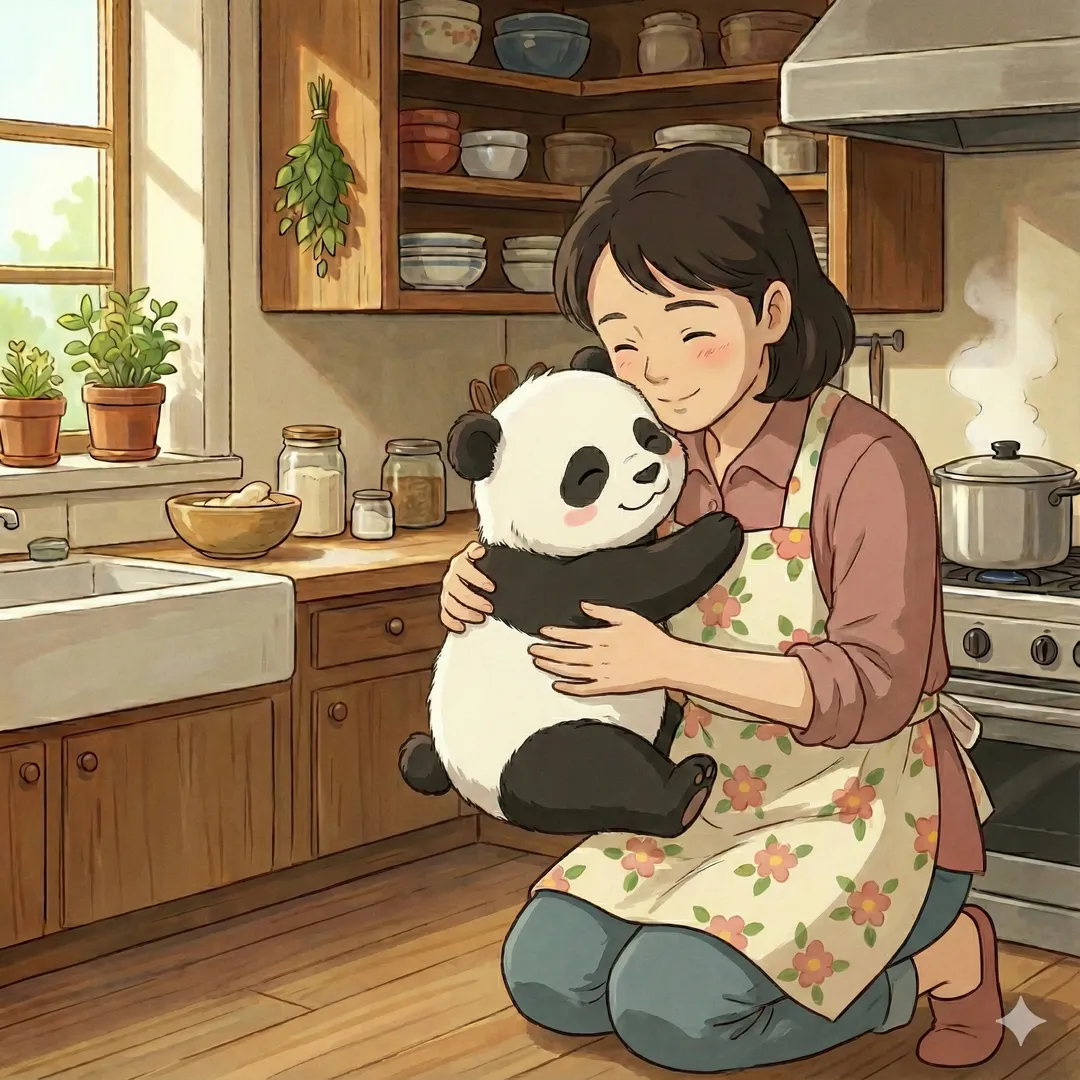
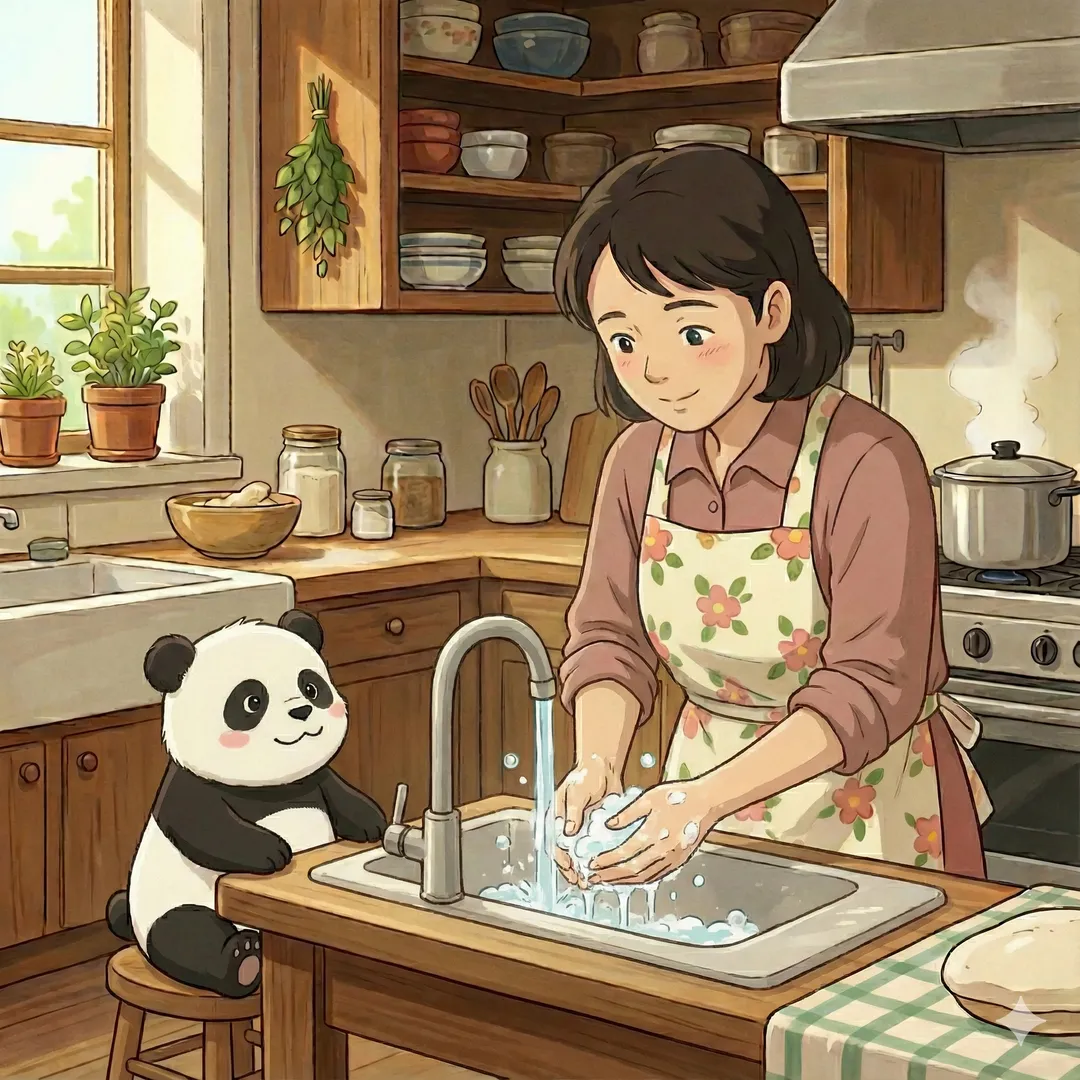
Updates

diff --git a/assets/main-BPvDbXsU.js b/assets/main-BPvDbXsU.js
@@ -1,0 +1,61 @@
+import"./modulepreload-polyfill-B5Qt9EMX.js";const S=[{id:"courage-pocket",title:"勇气口袋",description:"关于勇气的神奇故事",cover:"stories/courage-pocket/4.webp",link:"stories/courage-pocket/index.html",tags:["情绪管理"],ageRange:{min:3,max:6},printLink:"stories/courage-pocket/index.html?print=true"},{id:"magic-ears",title:"魔法耳朵",description:"聆听世界的声音",cover:"stories/magic-ears/3-2.webp",link:"stories/magic-ears/index.html",tags:["感官认知"],ageRange:{min:3,max:6},printLink:"stories/magic-ears/index.html?print=true"},{id:"frog-bath",title:"变身！不怕水的淋浴超人",description:"遵守安全指令 (淋浴场景)",cover:"stories/frog-bath/1.webp",link:"stories/frog-bath/index.html",tags:["生活习惯"],ageRange:{min:3,max:6},printLink:"stories/frog-bath/index.html?print=true"},{id:"lion-toothbrush",title:"小狮子，啊呜！",description:"适合1岁宝宝的刷牙绘本",cover:"stories/lion-toothbrush/1.webp",link:"stories/lion-toothbrush/index.html",tags:["生活习惯"],ageRange:{min:0,max:3},printLink:"stories/lion-toothbrush/index.html?print=true"},{id:"detective-katy",title:"凯蒂侦探和闪亮牙齿的秘密",description:"保护牙齿，是我自己的任务！",cover:"stories/detective-katy/1.webp",link:"stories/detective-katy/index.html",tags:["健康卫生"],ageRange:{min:3,max:6},printLink:"stories/detective-katy/index.html?print=true"},{id:"goodnight-panda",title:"团团和胖胖的晚安",description:"关于独立睡眠的温馨故事",cover:"stories/goodnight-panda/1.webp",link:"stories/goodnight-panda/index.html",tags:["生活习惯","独立睡眠"],ageRange:{min:0,max:3},printLink:"stories/goodnight-panda/index.html?print=true"},{id:"goodnight-meow",title:"咪咪的爱心罐子",description:"关于独立睡眠的温馨故事",cover:"stories/goodnight-meow/1.webp",link:"stories/goodnight-meow/index.html",tags:["生活习惯","独立睡眠"],ageRange:{min:0,max:3},printLink:"stories/goodnight-meow/index.html?print=true"},{id:"waiting-for-hug",title:"等抱抱",description:"关于耐心等待的温馨故事",cover:"stories/waiting-for-hug/1.webp",link:"stories/waiting-for-hug/index.html",tags:["情绪管理","耐心"],ageRange:{min:3,max:6},printLink:"stories/waiting-for-hug/index.html?print=true"},{id:"doudou-growth-chart",title:"豆豆的长大尺",description:"关于成长和独立睡觉的温馨故事",cover:"stories/doudou-growth-chart/1.webp",link:"stories/doudou-growth-chart/index.html",tags:["生活习惯","独立睡眠","成长"],ageRange:{min:3,max:6},printLink:"stories/doudou-growth-chart/index.html?print=true"}];function M(c){const a=document.createElement("div");a.className="print-modal-overlay",a.innerHTML=`
+        <div class="print-modal">
+            <div class="print-modal-header">
+                <h2>选择打印方向</h2>
+                <button class="print-modal-close" aria-label="关闭">✕</button>
+            </div>
+            <div class="print-modal-content">
+                <button class="print-option" data-orientation="landscape">
+                    <div class="print-option-icon">🖨</div>
+                    <div class="print-option-text">
+                        <strong>横版打印</strong>
+                        <span>11" × 8.5" - 图文并排</span>
+                    </div>
+                </button>
+                <button class="print-option" data-orientation="portrait">
+                    <div class="print-option-icon">📱</div>
+                    <div class="print-option-text">
+                        <strong>竖版打印</strong>
+                        <span>8.5" × 11" - 上下布局</span>
+                    </div>
+                </button>
+                <button class="print-option" data-orientation="booklet">
+                    <div class="print-option-icon">📖</div>
+                    <div class="print-option-text">
+                        <strong>小册子打印</strong>
+                        <span>对折版 - 5.5" × 8.5"</span>
+                    </div>
+                </button>
+            </div>
+        </div>
+    `,document.body.appendChild(a),a.querySelector(".print-modal-close").addEventListener("click",()=>{a.remove()}),a.addEventListener("click",r=>{r.target.classList.contains("print-modal-overlay")&&a.remove()}),a.querySelectorAll(".print-option").forEach(r=>{r.addEventListener("click",d=>{d.stopPropagation();const v=r.dataset.orientation,g=c.includes("?")?`${c}&orientation=${v}`:`${c}?orientation=${v}`;console.log("Opening print window:",g),window.open(g,"_blank"),a.remove()})}),requestAnimationFrame(()=>{a.classList.add("active")})}document.addEventListener("DOMContentLoaded",async()=>{const c=document.getElementById("story-grid"),a=document.getElementById("filter-container");if(!c||!a)return;let r=null,d=null;try{const o=new Set;let t=100,i=0;S.forEach(e=>{e.tags&&e.tags.forEach(s=>o.add(s)),e.ageRange&&(t=Math.min(t,e.ageRange.min),i=Math.max(i,e.ageRange.max))}),v(Array.from(o),t,i),$(S)}catch(o){console.error("Failed to load stories:",o),c.innerHTML='<p class="error-message">加载故事失败，请刷新页面重试。</p>'}function v(o,t,i){const e=document.createElement("div");e.className="filter-toggle-header",e.innerHTML=`
+      <button id="filter-toggle-btn" class="filter-toggle-btn">
+        <svg xmlns="http://www.w3.org/2000/svg" width="20" height="20" viewBox="0 0 24 24" fill="none" stroke="currentColor" stroke-width="2" stroke-linecap="round" stroke-linejoin="round"><polygon points="22 3 2 3 10 12.46 10 19 14 21 14 12.46 22 3"></polygon></svg>
+        筛选故事
+        <svg class="arrow" xmlns="http://www.w3.org/2000/svg" width="16" height="16" viewBox="0 0 24 24" fill="none" stroke="currentColor" stroke-width="2" stroke-linecap="round" stroke-linejoin="round"><polyline points="6 9 12 15 18 9"></polyline></svg>
+      </button>
+      <div id="active-filter-summary" class="active-filter-summary">全部故事</div>
+    `,a.appendChild(e);const s=document.createElement("div");s.className="filter-collapsible-content",s.style.display="none",a.appendChild(s);const p=e.querySelector("#filter-toggle-btn"),y=e.querySelector(".arrow");p.addEventListener("click",()=>{const n=s.style.display==="none";s.style.display=n?"flex":"none",y.style.transform=n?"rotate(180deg)":"rotate(0deg)",p.classList.toggle("active",n)});const k=document.createElement("div");k.className="filter-section",k.innerHTML='<div class="filter-group" id="age-filters"></div>',s.appendChild(k);const w=k.querySelector("#age-filters"),u=g("全部","all","age");u.classList.add("active"),u.addEventListener("click",()=>{r=null,L(w,"all"),u.textContent="全部";const n=w.querySelector('input[type="range"]');n&&(n.value=t),f(),h()}),w.appendChild(u);const E=document.createElement("div");E.className="age-slider-container";const m=document.createElement("input");m.type="range",m.min=t,m.max=i,m.value=t,m.addEventListener("input",n=>{const l=parseInt(n.target.value);r=l,u.innerHTML=`${l}岁 <span class="reset-icon">✕</span>`,u.classList.add("active"),f(),h()}),E.appendChild(m),w.appendChild(E);const x=document.createElement("div");x.className="filter-section",x.innerHTML='<div class="filter-group" id="topic-filters"></div>',s.appendChild(x);const b=x.querySelector("#topic-filters"),C=g("全部","all","topic");C.classList.add("active"),C.addEventListener("click",()=>{d=null,L(b,"all"),f(),h()}),b.appendChild(C),o.forEach(n=>{const l=g(n,n,"topic");l.addEventListener("click",()=>{d=n,L(b,n),f(),h()}),b.appendChild(l)});function h(){const n=document.getElementById("active-filter-summary"),l=[];r!==null&&l.push(`${r}岁`),d!==null&&l.push(d),l.length===0?n.textContent="全部故事":n.textContent=l.join(" + ")}h()}function g(o,t,i){const e=document.createElement("button");return e.className=`filter-chip ${i}-chip`,e.textContent=o,e.dataset.value=t,e}function L(o,t){o.querySelectorAll(".filter-chip").forEach(e=>{String(e.dataset.value)===String(t)?e.classList.add("active"):e.classList.remove("active")})}function f(){const o=S.filter(t=>{let i=!0;r!==null&&t.ageRange&&(i=r>=t.ageRange.min&&r<=t.ageRange.max);let e=!0;return d!==null&&(e=t.tags&&t.tags.includes(d)),i&&e});$(o)}function $(o){if(c.innerHTML="",o.length===0){c.innerHTML='<div class="empty-state">没有找到适合该条件的故事</div>';return}o.forEach(t=>{const i=document.createElement("div");i.className="story-card";const e=t.tags?`<div class="card-tags">${t.tags.map(p=>`<span class="tag">${p}</span>`).join("")}</div>`:"";i.innerHTML=`
+        <a href="${t.link}" class="story-link">
+          <div class="img-wrapper">
+            <img src="${t.cover}" alt="${t.title}" loading="lazy" />
+          </div>
+          <div class="card-content">
+            <h2>${t.title}</h2>
+            <p>${t.description}</p>
+            ${e}
+          </div>
+        </a>
+        <div class="card-actions">
+          <a href="${t.link}" class="btn-read">阅读</a>
+          <button class="btn-print" data-print-link="${t.printLink}">
+            <svg xmlns="http://www.w3.org/2000/svg" width="16" height="16" viewBox="0 0 24 24" fill="none"
+              stroke="currentColor" stroke-width="2" stroke-linecap="round" stroke-linejoin="round">
+              <polyline points="6 9 6 2 18 2 18 9"></polyline>
+              <path d="M6 18H4a2 2 0 0 1-2-2v-5a2 2 0 0 1 2-2h16a2 2 0 0 1 2 2v5a2 2 0 0 1-2 2h-2"></path>
+              <rect x="6" y="14" width="12" height="8"></rect>
+            </svg>
+            打印
+          </button>
+        </div>
+      `,i.querySelector(".btn-print").addEventListener("click",p=>{p.preventDefault();const y=p.currentTarget.dataset.printLink;M(y)}),c.appendChild(i)})}});

diff --git a/assets/waiting-for-hug-MQXxSk_D.js b/assets/waiting-for-hug-MQXxSk_D.js
@@ -1,0 +1,1 @@
+import"./modulepreload-polyfill-B5Qt9EMX.js";import{R as e,j as a,a as o,S as n}from"./StoryPlayer-B-Rs9Qdx.js";const t=[{id:0,type:"cover",image:"1.webp",text:{zh:"等抱抱",en:"Waiting for a Hug",es:"Esperando un Abrazo","zh-TW":"等抱抱"}},{id:1,type:"story",image:"1.webp",text:{zh:"厨房里飘着香香的味道。 妈妈在执行秘密任务——做最好吃的肉包子！ 团团跑进来，看到妈妈在揉一个又白又软的大面团。",en:"A delicious smell floated out of the kitchen. Mommy was on a secret mission—making the yummiest meat buns ever! Tuantuan ran in and saw Mommy kneading a big, soft, white ball of dough.",es:"Un olor delicioso salía de la cocina. Mamá estaba en una misión secreta: ¡hacer los bollos de carne más ricos del mundo! Tuantuan entró corriendo y vio a Mamá amasando una bola de masa grande, blanca y suave.","zh-TW":"廚房裡飄著香香的味道。 媽媽在執行秘密任務——做最好吃的肉包子！ 團團跑進來，看到媽媽在揉一個又白又軟的大麵團。"}},{id:2,type:"story",image:"2.webp",text:{zh:"团团张开手：“妈妈，抱抱！” 妈妈温柔地说：“哦，宝贝，妈妈也好想抱你！我看到你很想我抱你了。” 可是你看，妈妈手上沾满了“魔法面粉”。 如果现在抱，我们俩都会变成大雪人啦！",en:`Tuantuan opened his arms wide. "Mommy, hug!" Mommy smiled gently. "Oh, my darling, I want to hug you too! I can see you really want a cuddle." "But look," she showed him her hands. "My hands are covered in 'Magic Flour.' If we hug now, we'll both turn into giant snowmen!"`,es:`Tuantuan abrió los brazos. "¡Mamá, abrazo!". Mamá sonrió con dulzura. "¡Ay, mi cielo, yo también quiero abrazarte! Veo que tienes muchas ganas de un abrazo". "Pero mira", le enseñó las manos. "Mis manos están cubiertas de 'Harina Mágica'. ¡Si nos abrazamos ahora, los dos nos convertiremos en muñecos de nieve gigantes!".`,"zh-TW":"團團張開手：「媽媽，抱抱！」 媽媽溫柔地說：「哦，寶貝，媽媽也好想抱你！我看到你很想我抱你了。」 可是你看，媽媽手上沾滿了「魔法麵粉」。 如果現在抱，我們倆都會變成大雪人啦！"}},{id:3,type:"story",image:"3.webp",text:{zh:"妈妈说：“我们做个约定。等我把这些面团宝宝包好，送去‘蒸桑拿’。洗干净手，就立刻给你一个大大的抱抱！我保证！” 团团点点头，他愿意等待！ 他跑到小凳子上坐好，像个小卫兵一样看着妈妈。 妈妈包好一个，他就大声数：“一个！两个！”",en:`"Let's make a deal," Mommy said. "Wait until I wrap up these little dough babies and send them to the 'Steam Sauna.' Then, I'll wash my hands and give you a huge hug right away! I promise!" Tuantuan nodded. He could wait! He sat on his little stool, watching Mommy like a little guard. As Mommy wrapped each bun, he counted loudly: "One! Two!"`,es:`"Hagamos un trato", dijo Mamá. "Espera a que envuelva a estos bebés de masa y los mande a la 'Sauna de Vapor'. ¡Luego, me lavaré las manos y te daré un abrazo enorme de inmediato! ¡Lo prometo!". Tuantuan asintió. ¡Él podía esperar! Se sentó en su banquito, vigilando a Mamá como un pequeño guardia. Mientras Mamá envolvía cada bollo, él contaba fuerte: "¡Uno! ¡Dos!".`,"zh-TW":"媽媽說：「我們做個約定。等我把這些麵團寶寶包好，送去『蒸桑拿』。洗乾淨手，就立刻給你一個大大的抱抱！我保證！」 團團點點頭，他願意等待！ 他跑到小凳子上坐好，像個小衛兵一樣看著媽媽。 媽媽包好一個，他就大聲數：「一個！兩個！」"}},{id:4,type:"story",image:"4.webp",text:{zh:"包子送进蒸锅啦！ 妈妈说：“任务完成！现在去洗手，准备兑现约定咯！” 水龙头哗啦啦，把手洗得干干净净。",en:'The buns went into the steamer! "Mission accomplished!" Mommy announced. "Now, time to wash hands and keep my promise!" Splash, splash went the water, washing her hands squeaky clean.',es:'¡Los bollos entraron a la vaporera! "¡Misión cumplida!", anunció Mamá. "¡Ahora, a lavarse las manos y cumplir mi promesa!". Splash, splash hizo el agua, dejando sus manos rechinando de limpias.',"zh-TW":"包子送進蒸鍋啦！ 媽媽說：「任務完成！現在去洗手，準備兌現約定咯！」 水龍頭嘩啦啦，把手洗得乾乾淨淨。"}},{id:5,type:"story",image:"5.webp",text:{zh:"手洗干净啦！ 妈妈给了团团一个超级、超级大的拥抱！脸贴着脸蹭了蹭。 妈妈说：“谢谢你的耐心等待，我的小英雄。” 团团觉得好幸福呀。",en:'Hands are clean! Mommy gave Tuantuan a super, super big hug! She rubbed her cheek against his. "Thank you for waiting so patiently, my little hero," she whispered. Tuantuan felt so happy and warm inside.',es:'¡Manos limpias! ¡Mamá le dio a Tuantuan un abrazo súper, súper grande! Frotó su mejilla contra la de él. "Gracias por esperar con tanta paciencia, mi pequeño héroe", le susurró. Tuantuan se sintió muy feliz y calientito por dentro.',"zh-TW":"手洗乾淨啦！ 媽媽給了團團一個超級、超級大的擁抱！臉貼著臉蹭了蹭。 媽媽說：「謝謝你的耐心等待，我的小英雄。」 團團覺得好幸福呀。"}},{id:6,type:"story",image:"6.webp",text:{zh:"抱抱结束，“叮”的一声！ “哇！包子好啦！” 团团牵着妈妈的手，一起打开蒸锅。 热乎乎的香气扑面而来！",en:`Just as the hug finished—DING! "Wow! The buns are ready!" Tuantuan held Mommy's hand, and together they opened the steamer. A cloud of delicious, hot steam rushed out!`,es:'Justo cuando terminó el abrazo... ¡DING! "¡Guau! ¡Los bollos están listos!". Tuantuan tomó la mano de Mamá y juntos abrieron la vaporera. ¡Una nube de vapor delicioso y caliente salió de golpe!',"zh-TW":"抱抱結束，「叮」的一聲！ 「哇！包子好啦！」 團團牽著媽媽的手，一起打開蒸鍋。 熱乎乎的香氣撲面而來！"}},{id:7,type:"story",image:"7.webp",text:{zh:"妈妈把第一个包子递给团团：“请品尝吧，我的小队长！” 团团大口吃着香喷喷的包子。 他明白了，耐心等待一下，能换来温暖的抱抱，和最好吃的包子！",en:'Mommy handed the very first bun to Tuantuan. "Please have a taste, Captain Tuantuan!" Tuantuan took a big bite of the yummy bun. He understood now: waiting patiently brings warm hugs and the most delicious treats!',es:'Mamá le dio el primer bollo a Tuantuan. "¡Por favor, pruébalo, Capitán Tuantuan!". Tuantuan le dio un gran mordisco al rico bollo. Ahora entendía: ¡esperar con paciencia trae abrazos cálidos y los premios más deliciosos!',"zh-TW":"媽媽把第一個包子遞給團團：「請品嘗吧，我的小隊長！」 團團大口吃著香噴噴的包子。 他明白了，耐心等待一下，能換來溫暖的抱抱，和最好吃的包子！"}}];e.createRoot(document.getElementById("root")).render(a.jsx(o.StrictMode,{children:a.jsx(n,{storyData:t})}));

diff --git a/assets/doudou-growth-chart-N3Yo7pYt.js b/assets/doudou-growth-chart-N3Yo7pYt.js
@@ -1,0 +1,1 @@
+import"./modulepreload-polyfill-B5Qt9EMX.js";import{R as a,j as e,a as o,S as t}from"./StoryPlayer-B-Rs9Qdx.js";const r=[{id:0,type:"cover",image:"1.webp",text:{zh:"豆豆的长大尺",en:"Doudou's Growth Chart",es:"La Tabla de Crecimiento de Doudou","zh-TW":"豆豆的長大尺"}},{id:1,type:"story",image:"1.webp",text:{zh:"在游乐园里，有一个红色的大滑梯。小兔子豆豆伸长了手，哎呀，还差一点点，就能够到扶手啦。",en:"At the playground, there was a big red slide. Doudou the bunny stretched her arm as high as she could. Oh no! She was just a tiny bit too short to reach the handle.",es:"En el parque, había un gran tobogán rojo. La conejita Doudou estiró el brazo lo más alto que pudo. ¡Oh, no! Le faltaba solo un poquito para alcanzar la barandilla.","zh-TW":"在遊樂園裡，有一個紅色的大滑梯。小兔子豆豆伸長了手，哎呀，還差一點點，就能夠到扶手啦。"}},{id:2,type:"story",image:"2.webp",text:{zh:"回到家，爸爸对豆豆说：“我有一个长高的秘密哦。在自己的小床上好好睡觉，身体就会悄悄长大。墙上的‘长大尺’，会把你的努力都记下来。”",en:`Back home, Dad shared a secret with Doudou. "I know a way to grow taller," he whispered. "If you sleep soundly in your own little bed, your body will grow quietly. And the 'Growth Chart' on the wall will keep track of your progress!"`,es:`De vuelta en casa, Papá compartió un secreto con Doudou. "Conozco una forma de crecer más alta", susurró. "Si duermes profundamente en tu propia camita, tu cuerpo crecerá silenciosamente. ¡Y la 'Tabla de Crecimiento' en la pared llevará la cuenta de tu progreso!"`,"zh-TW":"回到家，爸爸對豆豆說：「我有一個長高的秘密哦。在自己的小床上好好睡覺，身體就會悄悄長大。牆上的『長大尺』，會把你的努力都記下來。」"}},{id:3,type:"story",image:"3.webp",text:{zh:"睡觉的时间到啦。豆豆和爸爸妈妈，玩了“爱心罐子”的游戏。她的心里，装得满满的，暖暖的。",en:'It was time for bed. Doudou played the "Love Jar" game with Mom and Dad. Her heart felt full and warm, brimming with love.',es:'Llegó la hora de dormir. Doudou jugó al juego del "Tarro del Amor" con Mamá y Papá. Su corazón se sentía lleno y cálido, rebosante de amor.',"zh-TW":"睡覺的時間到啦。豆豆和爸爸媽媽，玩了「愛心罐子」的遊戲。她的心裡，裝得滿滿的，暖暖的。"}},{id:4,type:"story",image:"4.webp",text:{zh:"豆豆回到自己的小床，她对好朋友胖胖说：“晚安，胖胖。我要开始长高高啦！”",en:`Doudou hopped into her own little bed. She whispered to her best friend, Pangpang, "Goodnight, Pangpang. I'm going to start growing tall now!"`,es:'Doudou saltó a su propia camita. Le susurró a su mejor amigo, Pangpang: "Buenas noches, Pangpang. ¡Voy a empezar a crecer ahora mismo!"',"zh-TW":"豆豆回到自己的小床，她對好朋友胖胖說：「晚安，胖胖。我要開始長高高啦！」"}},{id:5,type:"story",image:"5.webp",text:{zh:"她闭上眼睛，在暖暖的被窝里，睡得又香又甜。身体里的“长大精灵”，正在努力地工作呢……",en:'She closed her eyes and drifted into a sweet, deep sleep in her cozy blanket. Inside her body, the "Growth Elves" were hard at work...',es:'Cerró los ojos y cayó en un sueño dulce y profundo bajo su cálida manta. Dentro de su cuerpo, los "Duendes del Crecimiento" trabajaban sin descanso...',"zh-TW":"她閉上眼睛，在暖暖的被窩裡，睡得又香又甜。身體裡的「長大精靈」，正在努力地工作呢……"}},{id:6,type:"story",image:"6.webp",text:{zh:"第二天早上，太阳升起来了。豆豆醒来的第一件事，就是拉着爸爸去看她的长大尺。“哇——！”",en:'The next morning, the sun rose. The first thing Doudou did was drag Dad to see her growth chart. "Wow!"',es:'A la mañana siguiente, salió el sol. Lo primero que hizo Doudou fue llevar a Papá a ver su tabla de crecimiento. "¡Guau!"',"zh-TW":"第二天早上，太陽升起來了。豆豆醒來的第一件事，就是拉著爸爸去看她的長大尺。「哇——！」"}},{id:7,type:"story",image:"7.webp",text:{zh:"爸爸拿出金色的笔，在尺子上，画了一道亮晶晶的新线！“看，你真的长大了一点点！”",en:'Dad took out a golden pen and drew a shiny new line on the chart. "Look! You really did grow a little bit!"',es:'Papá sacó un bolígrafo dorado y dibujó una nueva línea brillante en la tabla. "¡Mira! ¡Realmente has crecido un poquito!"',"zh-TW":"爸爸拿出金色的筆，在尺子上，畫了一道亮晶晶的新線！「看，你真的長大了一點點！」"}},{id:8,type:"story",image:"8.webp",text:{zh:"他们又来到了游乐园。豆豆跑到红色的大滑梯下，她深吸一口气，再次伸出了小手……",en:"They went back to the playground. Doudou ran to the big red slide. She took a deep breath and stretched out her little hand again...",es:"Volvieron al parque. Doudou corrió hacia el gran tobogán rojo. Respiró hondo y volvió a estirar su manita...","zh-TW":"他們又來到了遊樂園。豆豆跑到紅色的大滑梯下，她深吸一口氣，再次伸出了小手……"}},{id:9,type:"story",image:"9.webp",text:{zh:"这一次，她的指尖，稳稳地碰到了红色的扶手！“我够到啦！爸爸妈妈，我真的长高啦！”",en:'This time, her fingertips firmly grasped the red handle! "I reached it! Mom, Dad, I really grew taller!"',es:'¡Esta vez, sus dedos agarraron firmemente la barandilla roja! "¡La alcancé! ¡Mamá, Papá, de verdad he crecido!"',"zh-TW":"這一次，她的指尖，穩穩地碰到了紅色的扶手！「我夠到啦！爸爸媽媽，我真的長高啦！」"}},{id:10,type:"story",image:"10.webp",text:{zh:"豆豆是整个游乐园里，最骄傲、最开心的小兔子。原来，在自己的小床上好好睡觉，就是最棒的长大魔法！",en:"Doudou was the proudest, happiest bunny in the whole playground. It turns out, sleeping soundly in your own bed is the best growing magic of all!",es:"Doudou era la conejita más orgullosa y feliz de todo el parque. ¡Resulta que dormir profundamente en tu propia cama es la mejor magia para crecer!","zh-TW":"豆豆是整個遊樂園裡，最驕傲、最開心的小兔子。原來，在自己的小床上好好睡覺，就是最棒的長大魔法！"}}];a.createRoot(document.getElementById("root")).render(e.jsx(o.StrictMode,{children:e.jsx(t,{storyData:r})}));

diff --git a/stories/doudou-growth-chart/index.html b/stories/doudou-growth-chart/index.html
@@ -4,7 +4,7 @@
 <head>
     <meta charset="UTF-8" />
     <meta name="viewport" content="width=device-width, initial-scale=1.0" />
-    <title>等抱抱 - 互动绘本</title>
+    <title>勇气口袋 - 互动绘本</title>
     <!-- Preconnect for faster font loading -->
     <link rel="preconnect" href="https://fonts.googleapis.com">
     <link rel="preconnect" href="https://fonts.gstatic.com" crossorigin>
@@ -12,7 +12,7 @@
     <link
         href="https://fonts.googleapis.com/css2?family=Noto+Sans+SC:wght@400;700&family=Noto+Serif+SC:wght@400;700&family=Quicksand:wght@400;600;700&display=swap"
         rel="stylesheet">
-  <script type="module" crossorigin src="/storybook/assets/waiting-for-hug-MQXxSk_D.js"></script>
+  <script type="module" crossorigin src="/storybook/assets/doudou-growth-chart-N3Yo7pYt.js"></script>
   <link rel="modulepreload" crossorigin href="/storybook/assets/modulepreload-polyfill-B5Qt9EMX.js">
   <link rel="modulepreload" crossorigin href="/storybook/assets/StoryPlayer-B-Rs9Qdx.js">
   <link rel="stylesheet" crossorigin href="/storybook/assets/StoryPlayer-C84AXd4l.css">

diff --git a/index.html b/index.html
@@ -13,7 +13,7 @@
   <link
     href="https://fonts.googleapis.com/css2?family=Noto+Sans+SC:wght@400;700&family=Quicksand:wght@400;600;700&display=swap"
     rel="stylesheet">
-  <script type="module" crossorigin src="/storybook/assets/main-DGkK4-kB.js"></script>
+  <script type="module" crossorigin src="/storybook/assets/main-BPvDbXsU.js"></script>
   <link rel="modulepreload" crossorigin href="/storybook/assets/modulepreload-polyfill-B5Qt9EMX.js">
   <link rel="stylesheet" crossorigin href="/storybook/assets/main-BI5X0swV.css">
 </head>
